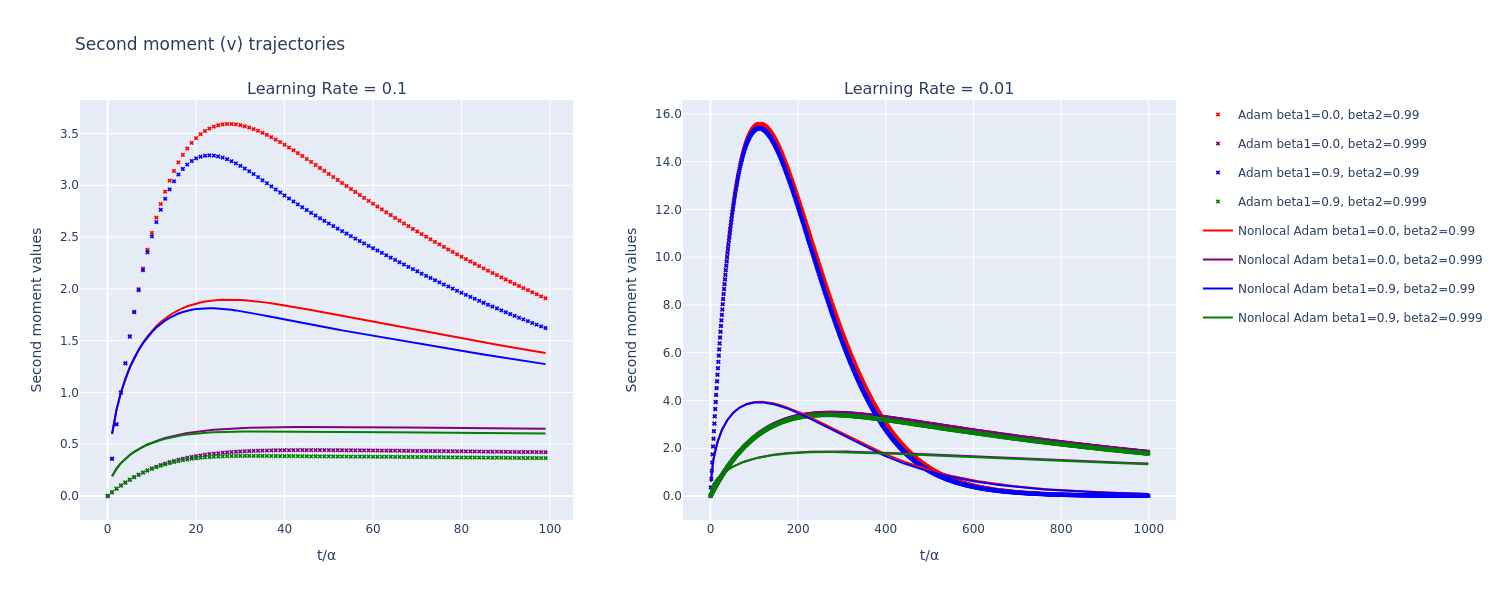
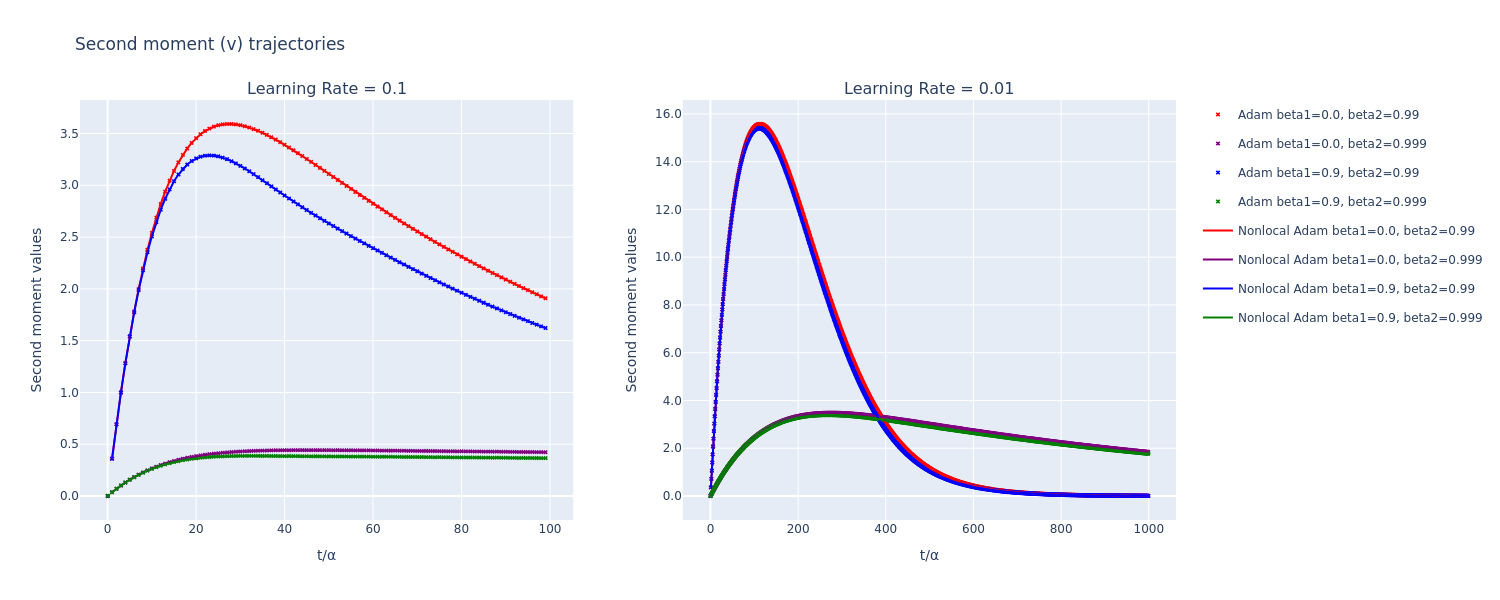
mejoras_v

diff --git a/Solver/adamsolver.py b/Solver/adamsolver.py
@@ -2,6 +2,7 @@ import numpy as np
 from typing import Callable
 from typing import Tuple
 import jax.numpy as jnp
+from interpax import interp1d
 from .base.common import _NonlocalSolverBase, _ema, DTYPE
 
 try:
@@ -88,28 +89,22 @@ class NonlocalSolverMomentumAdam(_NonlocalSolverBase):
                  **kw):
         super().__init__(*args, **kw)
         self.beta1, self.beta2 = map(DTYPE, betas)
-        self._alpha_t = lambda t: jnp.where(
-            t <= 1e-12,
-            1.,
-            jnp.sqrt(1 - self.beta2 ** (t / self.alpha)) /
-            (1 - self.beta1 ** (t / self.alpha))
-        )
-        self._eps_t = lambda t: jnp.sqrt(
-            1 - self.beta2 ** (t / self.alpha)) * DTYPE(1e-8)
+        self._alpha_t = lambda t: jnp.where(t <= 1e-12, 1., jnp.sqrt(1 - self.beta2 ** (t / self.alpha)) / (1 - self.beta1 ** (t / self.alpha)))
+        self._eps_t = lambda t: jnp.sqrt(1 - self.beta2 ** (t / self.alpha)) * DTYPE(1e-8)
 
     # ---------- hooks concretos ----------
     def _build_stats(self, y):
         interp = self._interp(y)
-        g = jax.vmap(lambda τ:
-                     self.dL(interp(τ)) + 0.5 * self.lambda_ * interp(τ))(self.t)
+        g = jax.vmap(lambda t: self.dL(interp(t)) + 0.5 * self.lambda_ * interp(t))(self.t)
         m = _ema(self.beta1, g)
-        v = _ema(self.beta2, g * g)
-        return (interp, m, jnp.sqrt(v),
-                jax.vmap(self._alpha_t)(self.t),
-                jax.vmap(self._eps_t)(self.t))
+        v = _ema(self.beta2, g**2)
+        v_sqrt  = jnp.sqrt(v)
+        self._last_m = jnp.stack((self.t, m), axis=1)      
+        self._last_v = jnp.stack((self.t, v), axis=1)  
+        return (y, m, v_sqrt, jax.vmap(self._alpha_t)(self.t), jax.vmap(self._eps_t)(self.t))
 
-    def _rhs(self, t, y_prev, idx,
-             interp, m, v_sqrt, a_t, eps_t):
+    def _rhs(self, t, y_prev, idx, y_fix, m, v_sqrt, a_t, eps_t):
+        y_val = interp1d(t, self.t, y_fix, method="cubic")
         denom = v_sqrt[idx] + eps_t[idx]
-        return self.f(t, interp(t)) - a_t[idx] * (m[idx] / denom)
+        return self.f(t, y_val) - a_t[idx] * (m[idx] / denom)
     

diff --git a/Solver/base/common.py b/Solver/base/common.py
@@ -3,12 +3,13 @@ Código común a todos los solvers no-locales.
 No se debe instanciar directamente.
 """
 from __future__ import annotations
+from functools import partial
 from typing import Callable, Tuple, Any
 import jax
 import jax.numpy as jnp
 from interpax import interp1d          # pip install interpax
 
-jax.config.update("jax_enable_x64", True)
+jax.config.update("jax_enable_x64", True)         
 DTYPE = jnp.float64
 
 @jax.jit
@@ -69,21 +70,21 @@ class _NonlocalSolverBase:
 
     # ---------------------------------------------------------------
     @staticmethod
-    @jax.jit
+    @partial(jax.jit, static_argnums=(3,)) 
     def _integrate(alpha: DTYPE,
                    y0: DTYPE,
                    t_vec: jnp.ndarray,
-                   rhs: Callable[[DTYPE, DTYPE, jnp.int32, Tuple[Any, ...]],
-                                 DTYPE],
+                   rhs: Callable[[DTYPE, DTYPE, jnp.int32, Tuple[Any, ...]],DTYPE],
                    stats: Tuple[Any, ...]) -> jnp.ndarray:
         """Euler + lax.scan; una sola compilación para todo el proceso."""
         idxs  = jnp.arange(len(t_vec), dtype=jnp.int32)
         ts_id = jnp.stack((t_vec[:-1], idxs[:-1]), axis=1)
 
         def step(y_prev, args):
-            t, i = args
-            dy = rhs(t, y_prev, i.astype(jnp.int32), *stats)
-            return y_prev + alpha * dy, y_prev
+            t, idx = args
+            idx = idx.astype(jnp.int32) 
+            y_next = y_prev + alpha * rhs(t, y_prev, idx, *stats)
+            return y_next, y_next 
 
         _, hist = jax.lax.scan(step, y0, ts_id)
         return jnp.concatenate([jnp.array([y0], dtype=DTYPE), hist])

diff --git a/Solver/adagradsolver.py b/Solver/adagradsolver.py
@@ -65,13 +65,13 @@ class NonlocalSolverAdaGrad(_NonlocalSolverBase):
         self._alpha_t = lambda τ: 1. / (1. + τ * (self.lr_decay / self.alpha))
 
     def _build_stats(self, y):
-        interp = self._interp(y)                # NO jit  → evita recompilaciones
-        g = jax.vmap(lambda τ:
-                     self.dL(interp(τ)) + 0.5 * self.lambda_ * interp(τ))(self.t)
-        G = jnp.cumsum(g * g)                   # Σ g²  (AdaGrad)
-        return interp, g, jnp.sqrt(G), jax.vmap(self._alpha_t)(self.t)
+        interp = self._interp(y)
+        g      = jax.vmap(lambda τ: self.dL(interp(τ))
+                        + 0.5 * self.lambda_ * interp(τ))(self.t)
+        G_sqrt = jnp.sqrt(jnp.cumsum(g*g))
+        return (y, g, G_sqrt, jax.vmap(self._alpha_t)(self.t))
 
-    def _rhs(self, t, y_prev, idx, interp, g, G_sqrt, a_t):
-        return self.f(t, interp(t)) \
-               - a_t[idx] * g[idx] / (G_sqrt[idx] + self.eps)
+    def _rhs(self, t, y_prev, idx, y_fix, g, G_sqrt, a_t):
+        y_val = interp1d(t, self.t, y_fix, method="cubic")
+        return self.f(t, y_val) - a_t[idx] * g[idx] / (G_sqrt[idx] + self.eps)
     

diff --git a/Solver/rmspropsolver.py b/Solver/rmspropsolver.py
@@ -72,10 +72,11 @@ class NonlocalSolverMomentumRMSProp(_NonlocalSolverBase):
 
     def _build_stats(self, y):
         interp = self._interp(y)
-        g = jax.vmap(lambda τ:
-                     self.dL(interp(τ)) + 0.5 * self.lambda_ * interp(τ))(self.t)
-        v = _ema(self.beta, g * g)
-        return interp, g, jnp.sqrt(v)
+        g      = jax.vmap(lambda τ: self.dL(interp(τ))
+                        + 0.5 * self.lambda_ * interp(τ))(self.t)
+        v_sqrt = jnp.sqrt(_ema(self.beta, g*g))
+        return (y, g, v_sqrt)          
 
-    def _rhs(self, t, y_prev, idx, interp, g, v_sqrt):
-        return self.f(t, interp(t)) - g[idx] / (v_sqrt[idx] + self.eps)
+    def _rhs(self, t, y_prev, idx, y_fix, g, v_sqrt):
+        y_val = interp1d(t, self.t, y_fix, method="cubic")
+        return self.f(t, y_val) - g[idx] / (v_sqrt[idx] + self.eps)
